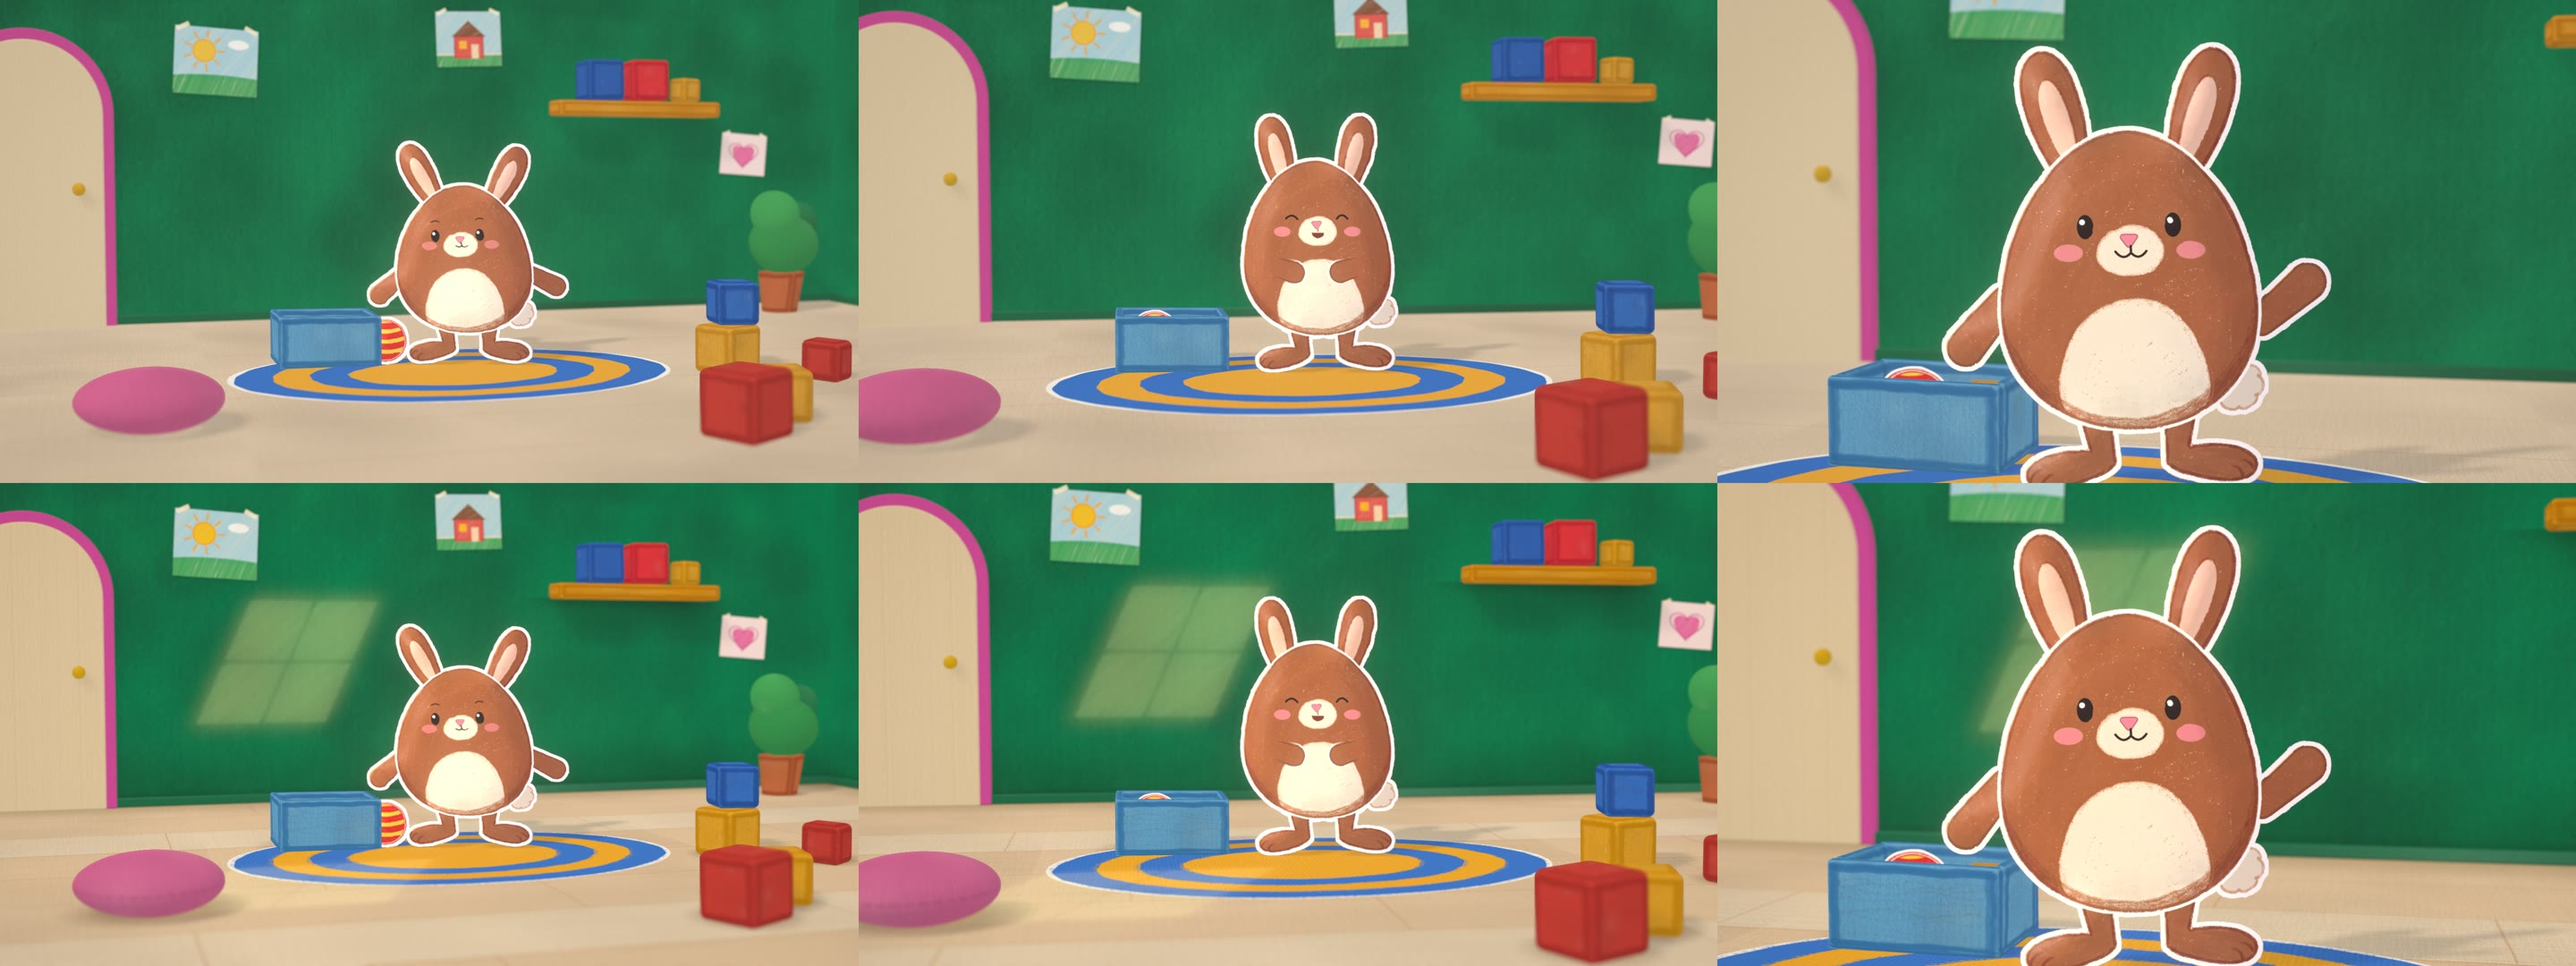
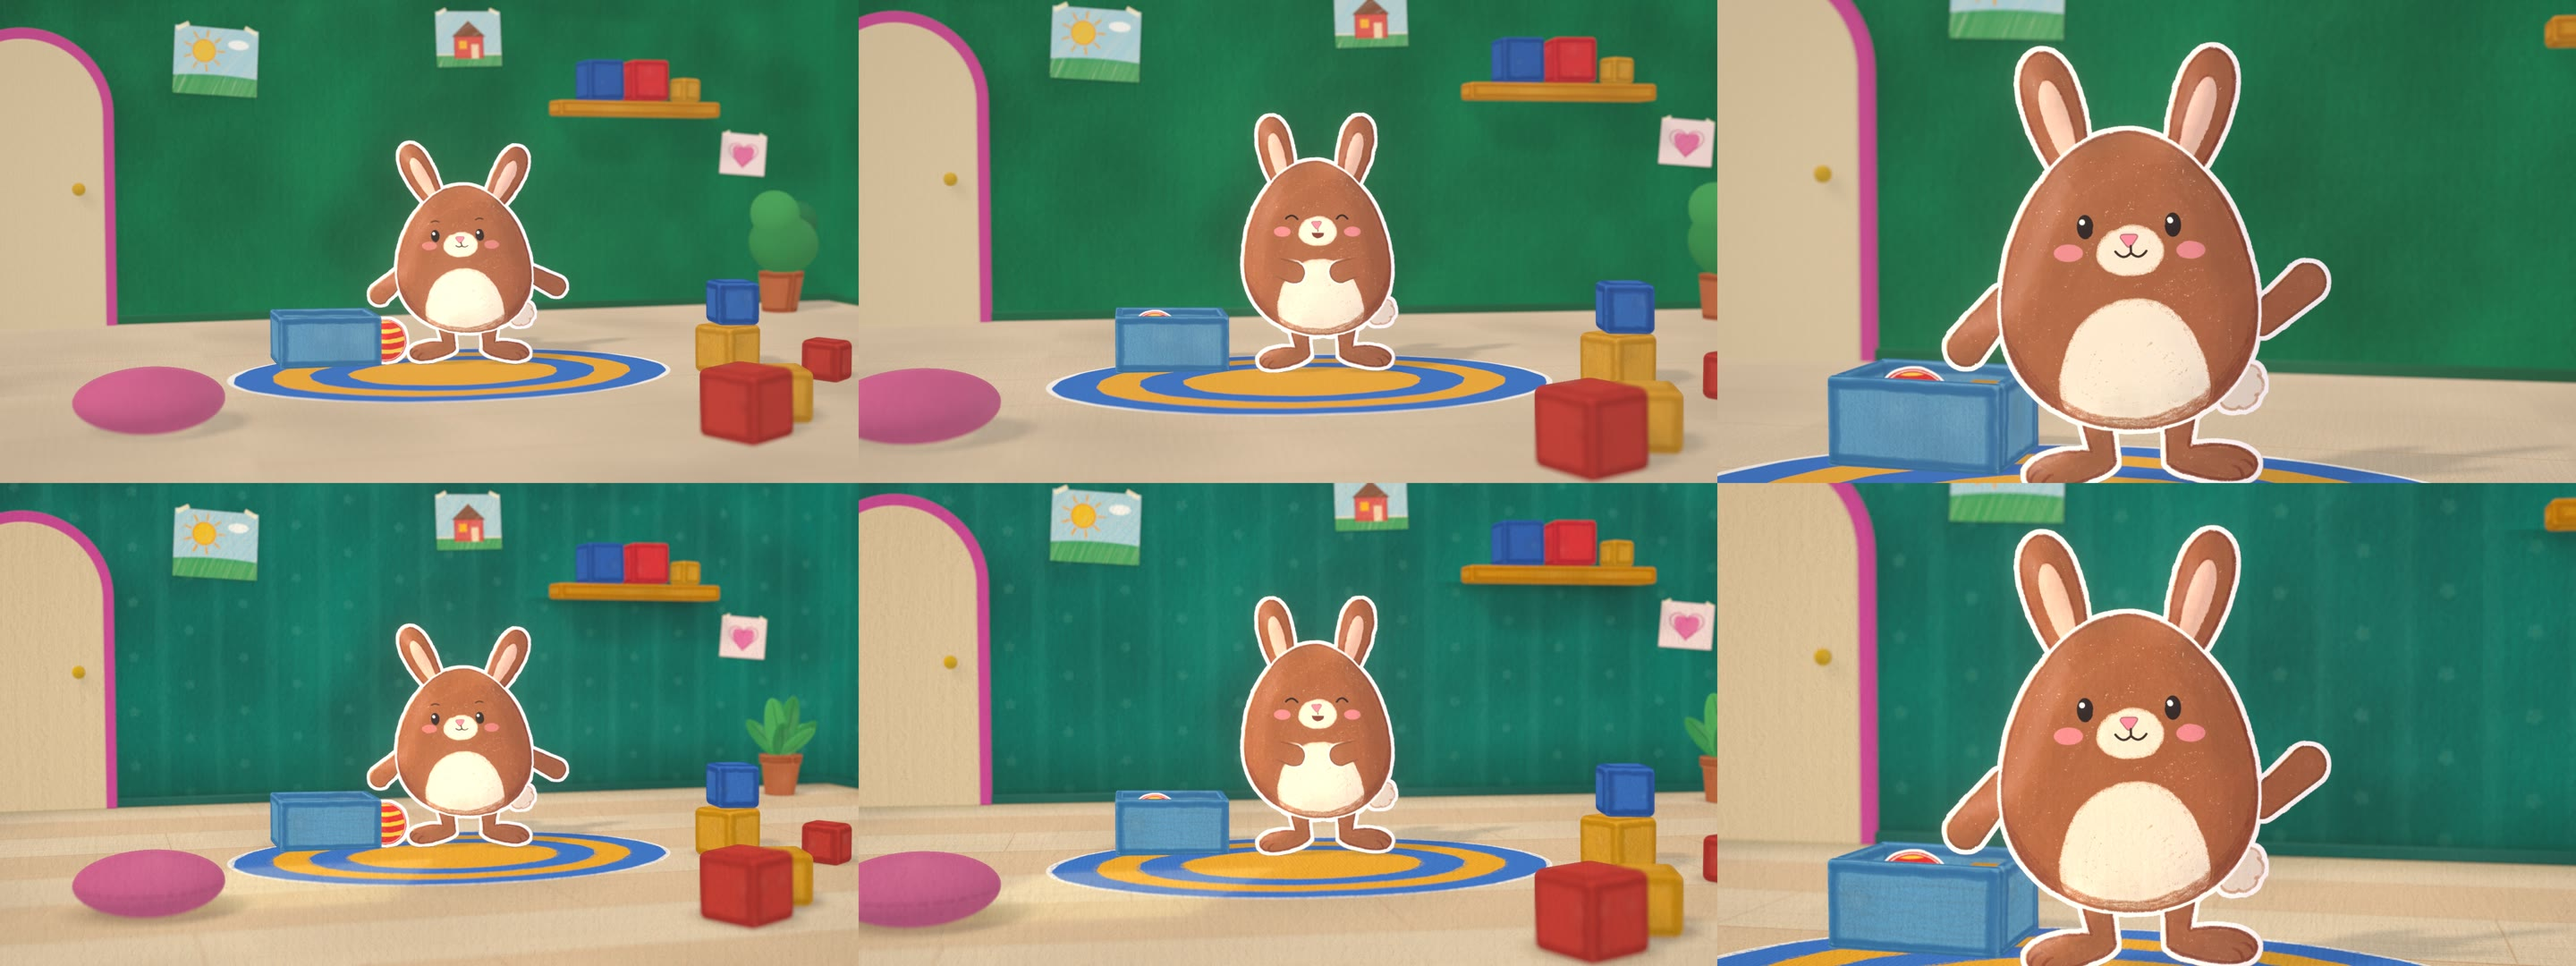
three-rum ?rum2: ingen solfläck på väggen, turkos vägg med tapet, ny krukväxt, papperskorn över bilden

Changed region(s): [[0.0, 0.4889, 0.6875, 0.825], [0.7188, 0.4889, 1.0, 0.8861]]

diff --git a/produktion/three-rum/lekrummet/rum.js b/produktion/three-rum/lekrummet/rum.js
@@ -39,7 +39,7 @@ R.setPixelRatio(1); R.setSize(W, H, false);
 R.outputColorSpace = THREE.SRGBColorSpace; R.toneMapping = THREE.NoToneMapping;   // ingen tonkurva: kritfärgerna ska bli som i plattan
 R.shadowMap.enabled = true; R.shadowMap.type = THREE.PCFShadowMap;
 const scen = new THREE.Scene();
-scen.background = new THREE.Color('#05a167');
+scen.background = new THREE.Color(RUM2 ? '#0fa08d' : '#05a167');
 const cam = new THREE.PerspectiveCamera(24, W / H, 0.1, 40);   // runda 7: längre objektiv (24° i stället för 30°), plattare perspektiv
 const LINS = Math.tan(15 * Math.PI / 180) / Math.tan(12 * Math.PI / 180);   // kameran längre bort så att utsnittet blir detsamma
 
@@ -82,17 +82,27 @@ const skakig = ([ax, ay], [bx, by], d = 2, n = 12) => Array.from({ length: n + 1
 // tät kort kritskraffering åt ett håll med mycket låg täckning (läses som vaxkrita, inte som streck) och kritkorn i två skalor.
 function vaggBit(w, h) {
   const c = canvas(w, h), x = c.getContext('2d');
-  x.fillStyle = '#05a167'; x.fillRect(0, 0, w, h);
+  x.fillStyle = RUM2 ? '#0fa08d' : '#05a167'; x.fillRect(0, 0, w, h);   // rum2 (Sanna 24/11): mer turkos
   for (let n = 0; n < w * h / 9000; n++) {   // fläckar
     const px = slump() * w, py = slump() * h, r = 60 + slump() * 160, g = x.createRadialGradient(px, py, 0, px, py, r), ljus = slump() < 0.5;
-    g.addColorStop(0, ljus ? 'rgba(60,190,120,0.12)' : 'rgba(0,110,70,0.12)'); g.addColorStop(1, 'rgba(0,0,0,0)'); x.fillStyle = g; x.fillRect(px - r, py - r, 2 * r, 2 * r); }
+    g.addColorStop(0, RUM2 ? (ljus ? 'rgba(70,195,175,0.12)' : 'rgba(0,100,90,0.12)') : ljus ? 'rgba(60,190,120,0.12)' : 'rgba(0,110,70,0.12)'); g.addColorStop(1, 'rgba(0,0,0,0)'); x.fillStyle = g; x.fillRect(px - r, py - r, 2 * r, 2 * r); }
   x.lineCap = 'round';
   for (let n = 0; n < w * h / 180; n++) {   // skraffering: korta snea drag, nästan osynliga ett och ett
     const px = slump() * w, py = slump() * h, l = 8 + slump() * 12, ljus = slump() < 0.55, a = -1.1 + (slump() - 0.5) * 1.2;
-    x.strokeStyle = ljus ? 'rgba(120,215,150,0.04)' : 'rgba(0,90,55,0.04)'; x.lineWidth = 2.5 + slump() * 3;
+    x.strokeStyle = RUM2 ? (ljus ? 'rgba(125,215,195,0.04)' : 'rgba(0,80,72,0.04)') : ljus ? 'rgba(120,215,150,0.04)' : 'rgba(0,90,55,0.04)'; x.lineWidth = 2.5 + slump() * 3;
     x.beginPath(); x.moveTo(px, py); x.lineTo(px + l * Math.cos(a), py + l * Math.sin(a)); x.stroke(); }
+  if (RUM2) tapet(x, w, h);
   kornPa(x, w, h, 512); kornPa(x, w, h, 160); kornPa(x, w, h, 72);
   return c;
+}
+// Tapet (rum2): svaga, handritade ränder (en ljusare krita var 30:e cm) och små femprickiga blommor mellan ränderna,
+// i ljus turkos med låg täckning, så att väggen fortfarande är ett starkt färgfält.
+function tapet(x, w, h) {
+  const P = 99;   // 0,3 m vid 330 px/m
+  for (let i = P / 2; i < w; i += P) krita(x, skakig([i, -10], [i + 3, h + 10], 3, 30), 'rgb(150,235,215)', 22, 0.045, 3);
+  for (let i = 0, k = 0; i < w; i += P, k++) for (let j = (k % 2) * P / 2 + P / 4; j < h; j += P) {
+    for (let b = 0; b < 5; b++) { const a = b / 5 * 2 * Math.PI + k; x.fillStyle = 'rgba(225,255,240,0.13)'; x.beginPath(); x.arc(i + 6 * Math.cos(a), j + 6 * Math.sin(a), 3.6, 0, 7); x.fill(); }
+    x.fillStyle = 'rgba(255,225,140,0.16)'; x.beginPath(); x.arc(i, j, 2.6, 0, 7); x.fill(); }
 }
 // Golvet: varmt ljust golv, kritkorn och plankstreck som vickar lite.
 function golvBit() {
@@ -279,8 +289,8 @@ async function byggRum() {
   const golv = new THREE.Mesh(new THREE.PlaneGeometry(2 * SIDA, 6), new THREE.MeshLambertMaterial({ map: tex(RUM2 ? golvBit2() : golvBit(), [3, 3]) }));
   golv.rotation.x = -Math.PI / 2; golv.position.set(0, 0, BAK + 3); golv.receiveShadow = true; scen.add(golv);
   // golvlist: plattans mörkgröna kritkant där väggen möter golvet
-  lada(2 * SIDA, 0.05, 0.03, '#1f7a52', null, [0, 0.025, BAK + 0.015], { r: 0.01, vick: 0.003 });
-  for (const s of [-1, 1]) lada(0.03, 0.05, 6, '#1f7a52', null, [s * (SIDA - 0.015), 0.025, BAK + 3], { r: 0.01, vick: 0.003 });
+  lada(2 * SIDA, 0.05, 0.03, RUM2 ? '#136a5e' : '#1f7a52', null, [0, 0.025, BAK + 0.015], { r: 0.01, vick: 0.003 });
+  for (const s of [-1, 1]) lada(0.03, 0.05, 6, RUM2 ? '#136a5e' : '#1f7a52', null, [s * (SIDA - 0.015), 0.025, BAK + 3], { r: 0.01, vick: 0.003 });
 
   // dörren: gräddvit med rosa kritram och gul knopp (plattan: #fae7c4, #e757b2)
   const DX = -1.85, DB = 0.8, DH = 1.55;
@@ -327,9 +337,10 @@ async function byggRum() {
   // en rund rosa golvkudde längst fram till vänster (förgrund, blir mjukt suddig)
   klot(0.24, '#e86fa8', [-1.3, 0.1, 1.0], [1, 0.42, 0.9], 0.03, RUM2);
   // en liten krukväxt i hörnet till höger
+  if (RUM2) vaxt(2.45, -1.25); else {
   const kruka = new THREE.Mesh(ojamn(new THREE.CylinderGeometry(0.13, 0.1, 0.24, 28), 0.004), new THREE.MeshLambertMaterial({ map: sidBild(0.8, 0.24, '#d8784a', '#9b4a26') }));
   kruka.position.set(2.45, 0.12, -1.25); kruka.castShadow = kruka.receiveShadow = true; scen.add(kruka);
-  klot(0.2, '#3da35a', [2.45, 0.42, -1.25], [1, 0.9, 1], 0.08); klot(0.14, '#4cb866', [2.36, 0.6, -1.2], [1, 1, 1], 0.08); klot(0.12, '#2e8b57', [2.58, 0.55, -1.3], [1, 1, 1], 0.08);
+  klot(0.2, '#3da35a', [2.45, 0.42, -1.25], [1, 0.9, 1], 0.08); klot(0.14, '#4cb866', [2.36, 0.6, -1.2], [1, 1, 1], 0.08); klot(0.12, '#2e8b57', [2.58, 0.55, -1.3], [1, 1, 1], 0.08); }
 
   // papperskedjan högt upp på bakväggen (kodscenens färger), två slingor; varannan länk vriden
   const FARGER = ['#D9443A', '#F2B33D', '#FFF6E8', '#E86FA8', '#3D7BD9'], ring = new THREE.TorusGeometry(0.05, 0.013, 8, 24);
@@ -340,13 +351,33 @@ async function byggRum() {
   kedja(-SIDA + 0.1, 0, 2.2, 0.28); kedja(0, SIDA - 0.1, 2.2, 0.28);
   if (RUM2) rum2Ljus();
 }
-// ?rum2: ljusdetaljer som målade lager (inga nya ljuskällor med skugga): solfläckar från ett fönster till vänster utanför bild,
+// ?rum2: krukväxten. Terrakottakruka med kant och mörk jord, nio blad som bladen på en liten gummiväxt: platta ovaler i två
+// gröna, med kritad mittnerv och korn, som står ut i en solfjäder från jorden (de yttre lutar mer och är lite mindre).
+function vaxt(px, pz) {
+  const kruka = new THREE.Mesh(ojamn(new THREE.CylinderGeometry(0.11, 0.085, 0.2, 28), 0.003), new THREE.MeshLambertMaterial({ map: sidBild(0.7, 0.2, '#d8784a', null, 0) }));
+  kruka.position.set(px, 0.1, pz); scen.add(kruka);
+  const kant = new THREE.Mesh(ojamn(new THREE.CylinderGeometry(0.125, 0.12, 0.05, 28), 0.002), new THREE.MeshLambertMaterial({ map: sidBild(0.8, 0.05, '#e08a5a', '#9b4a26') }));
+  kant.position.set(px, 0.215, pz); scen.add(kant);
+  const jord = new THREE.Mesh(new THREE.CylinderGeometry(0.108, 0.108, 0.01, 28), mat('#5a3a26')); jord.position.set(px, 0.232, pz); scen.add(jord);
+  for (const m of [kruka, kant, jord]) m.castShadow = m.receiveShadow = true;
+  const bladTex = farg => { const c = canvas(256, 256), x = c.getContext('2d'); x.fillStyle = farg; x.fillRect(0, 0, 256, 256); flackar(x, 256, 256, 0.12);
+    for (const u of [64, 192]) krita(x, skakig([u, 14], [u, 242], 2, 10), 'rgba(20,70,35,1)', 4, 0.35, 3);   // mittnerv fram och bak
+    kornPa(x, 256, 256, 128); return tex(c); };
+  const T = [bladTex('#3da35a'), bladTex('#58bd6a')], upp = new THREE.Vector3(0, 1, 0), bas = new THREE.Vector3(px, 0.23, pz);
+  for (let i = 0; i < 9; i++) {
+    const yttre = i > 2, a = i * 2.4 + 0.3, lut = yttre ? 0.75 + 0.15 * (i % 2) : 0.2 + 0.12 * i, L = yttre ? 0.15 : 0.19;
+    const dir = new THREE.Vector3(Math.sin(lut) * Math.cos(a), Math.cos(lut), Math.sin(lut) * Math.sin(a));
+    const b = new THREE.Mesh(new THREE.SphereGeometry(1, 24, 16), new THREE.MeshLambertMaterial({ map: T[i % 2] }));
+    b.scale.set(L * 0.38, L, L * 0.09); b.quaternion.setFromUnitVectors(upp, dir); b.position.copy(bas).addScaledVector(dir, L * 0.95);
+    b.castShadow = b.receiveShadow = true; scen.add(b); }
+}
+// ?rum2: ljusdetaljer som målade lager (inga nya ljuskällor med skugga): en solfläck på golvet från ett fönster till vänster utanför bild,
 // mjuk skugga där golvet möter väggarna (med en aning grönt ur väggen), kontaktskuggor under sakerna på golvet och under hyllan.
 function rum2Ljus() {
   const sol = tex(solBit()); sol.wrapS = sol.wrapT = THREE.ClampToEdgeWrapping;
   const solM = o => new THREE.MeshBasicMaterial({ map: sol, transparent: true, opacity: o, depthWrite: false, blending: THREE.AdditiveBlending });
   const skev = (g, k) => g.applyMatrix4(new THREE.Matrix4().makeShear(0, 0, k, 0, 0, 0));   // x += k·y: fönstret snett, som ljus från sidan
-  const vs = new THREE.Mesh(skev(new THREE.PlaneGeometry(1.0, 0.95), 0.45), solM(0.22)); vs.position.set(-0.45, 0.8, BAK + 0.012); scen.add(vs);
+  // ingen solfläck på väggen (Sanna 2026-11-24), bara på golvet
   const gs = new THREE.Mesh(skev(new THREE.PlaneGeometry(1.1, 1.0), 0.5), solM(0.16)); gs.rotation.x = -Math.PI / 2; gs.position.set(-0.75, 0.007, 0.7); scen.add(gs);
   // hörnskugga golv/vägg: ett band på golvet och ett på väggen (gradienten mörkast i hörnet)
   const hornG = multiply(tex(aoBit(false, [178, 176, 150]))), hornV = multiply(tex(aoBit(false, [150, 150, 140])));
@@ -641,10 +672,14 @@ class Linsoskarpa extends Pass {
 }
 // Gradering: en varm ton, lite lyft i skuggorna och en svag vinjett (högst 0,12, regeln säger 0,14), i linjärt ljus före sRGB.
 class Gradering extends Pass {
-  constructor() { super(); this.u = { tBild: { value: null } };
+  constructor() { super(); this.u = { tBild: { value: null }, tPapper: { value: null }, skala: { value: new THREE.Vector2(W / 900, H / 900) } };
     this.q = new FullScreenQuad(new THREE.ShaderMaterial({ uniforms: this.u, vertexShader: 'varying vec2 vUv; void main(){ vUv = uv; gl_Position = vec4(position.xy, 0., 1.); }',
-      fragmentShader: `uniform sampler2D tBild; varying vec2 vUv;
+      fragmentShader: `uniform sampler2D tBild, tPapper; uniform vec2 skala; varying vec2 vUv;
         void main() { vec3 c = texture2D(tBild, vUv).rgb;
+          ${RUM2 ? `// rum2: hela bilden på papper. Papperskornet (samma som i rummets kritkorn) ligger still i bilden, i två skalor,
+          // ±8 % ljushet, så att allt, också Kanel, ser ritat på samma ark ut
+          float p = texture2D(tPapper, vUv * skala).r * 0.6 + texture2D(tPapper, vUv * skala * 2.37 + 0.31).r * 0.4;
+          c *= 1.0 + (p - 0.94) * 1.7;` : ''}
           c *= vec3(1.015, 1.0, 0.975);
           c = c + 0.012 * (1.0 - c);
           ${RUM2 ? `float l = dot(c, vec3(0.2126, 0.7152, 0.0722)); c = mix(vec3(l), c, 1.06);   // rum2: lite mer mättnad
@@ -660,7 +695,8 @@ const lins = new Linsoskarpa();
 komp.addPass(new RenderPass(scen, cam));
 komp.addPass(lins);
 komp.addPass(new UnrealBloomPass(new THREE.Vector2(W, H), 0.16, 0.55, 0.93));
-komp.addPass(new Gradering());
+const gradering = new Gradering();
+komp.addPass(gradering);
 komp.addPass(new OutputPass());
 
 // ---------- en bildruta ----------
@@ -709,6 +745,7 @@ window.LJUD = [
 window.DURATION = DURATION;
 window.ready = (async () => {
   await byggRum();
+  if (RUM2) { const t = new THREE.CanvasTexture(KORNC); t.wrapS = t.wrapT = THREE.RepeatWrapping; gradering.u.tPapper.value = t; }
   // runda 7 (Sanna: plattare rum): rummets ytor lyser till 40 % av sig själva (golv och matta 20 %, så att Kanels skugga syns kvar),
   // så att ljus och skugga skiljer mindre mellan sidorna och ytorna läses som platta målade färgfält, som i 2D-plattan
   scen.traverse(o => { if (!o.isMesh) return; for (const m of [].concat(o.material)) { if (!m.isMeshLambertMaterial) continue;

diff --git a/produktion/three-rum/README.md b/produktion/three-rum/README.md
@@ -139,7 +139,8 @@ Bollen: handen släpper den framför lådans framvägg, och den gled snett ner g
 ## ?rum2: rikare rum och ljusdetaljer (prov 2026-11-24, väntar på Sanna)
 Flaggan `?rum2` (t.ex. `--fraga "dolly&ricks&rum2"`) ändrar bara rummet; utan den är standardfilmen och `?ricks` som förut. Allt är kanvastexturer och three.js, inga nya bilder.
 - **Material:** trägolv (ljusare och varmare, fyra plankor per 2 m med egen ton, ådror och förskjutna ändskarvar, `golvBit2`), träådror på hyllan, dörren och leksakslådan (svagare, målat trä; `adror`, `lada(..., { tra })`), vävd matta med luddiga kanter mellan ringarna (`mattBit2`), kudden i tyg med en söm runt (`klot(..., tyg)`).
-- **Ljus som målade lager:** en mjuk solfläck från ett fönster till vänster utanför bild på väggen och golvet, fylld med ljusa snea kritdrag som i plattan (`solBit`, additiv), mjuk hörnskugga där golvet möter väggarna med en aning grönt från väggen, kontaktskuggor under lådan, klossarna, kudden och krukan, och en mjuk skugga under hyllan (`rum2Ljus`, multiply). Ett svagt varmt motljus från höger utan skugga så att sakernas skuggsidor inte blir grumliga.
+- **Ljus som målade lager:** en mjuk solfläck på golvet från ett fönster till vänster utanför bild (ingen på väggen, Sanna 24/11), fylld med ljusa snea kritdrag som i plattan (`solBit`, additiv), mjuk hörnskugga där golvet möter väggarna med en aning grönt från väggen, kontaktskuggor under lådan, klossarna, kudden och krukan, och en mjuk skugga under hyllan (`rum2Ljus`, multiply). Ett svagt varmt motljus från höger utan skugga så att sakernas skuggsidor inte blir grumliga.
+- **Vägg, växt och papper (Sanna 24/11):** väggen mer turkos (`#0fa08d`, golvlisten `#136a5e`) med en svag tapet: ljusa kritränder var 30:e cm och små femprickiga blommor emellan (`tapet`). Ny krukväxt: terrakottakruka med kant och jord, nio platta blad i två gröna med kritad mittnerv i en solfjäder (`vaxt`). Hela bilden ligger på papper: papperskornet läggs still över bilden i två skalor, ±8 %, i graderingen, så att Kanel och rummet ser ritade på samma ark ut.
 - **Gradering:** 6 % mer mättnad, svala skuggor och varmt ljus. Vinjetten oförändrad (0,12).
 - Inte gjort: kantljus (rim light) på klossarna, ljusare vägg. Platthetens emissive-pass (runda 7) gäller också i rum2.
 - Prov: `lekrummet/rum2-fore-efter.jpg` (överst nu, underst rum2, 2, 8 och 14 s), `lekrummet/lekrummet-rum2-snabb.mp4`.
